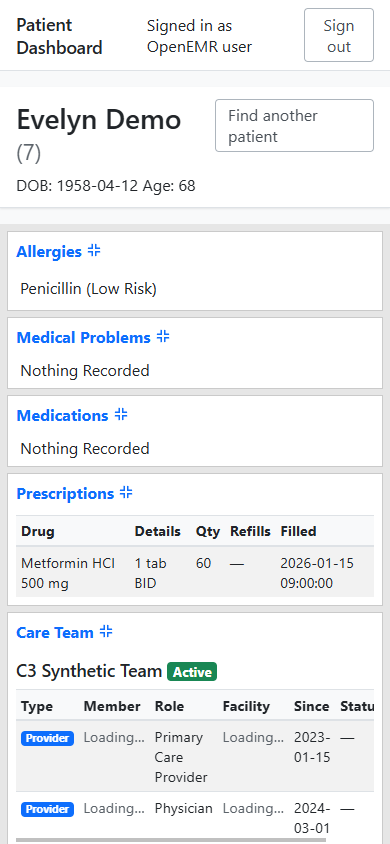
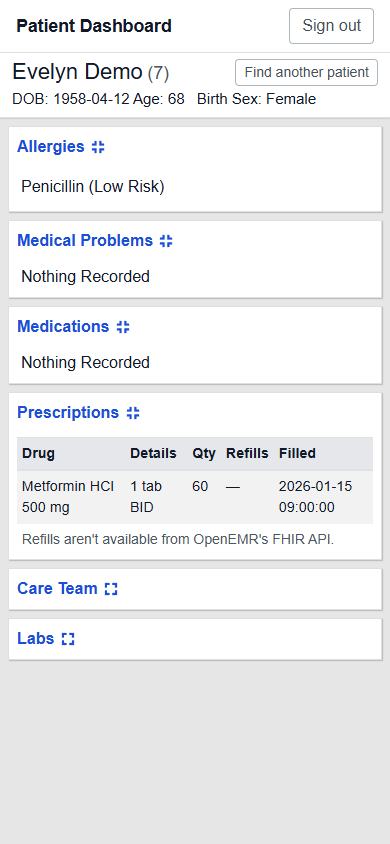
docs(dashboard): re-capture port screenshots after UX wave 3
- docs/dashboard-parity: every *_port.png (pid 7 and pid 10 header and
  cards), list_landing_port.png and pid7_phone_port.png re-captured on the
  dev stack as drdash with the C6 recipe (same filenames; synthetic data).
  pid7_modeB_page.png is noted as pre-UX (mode B needs a launch from inside
  OpenEMR; not re-captured).
- PARITY.md: Presentation now covers waves 1-3 (page layout, page messages);
  the landing rows use the current copy ("This page is past the end of the
  list.", "Showing 21-40", Clear list); the wave 3 real-Chrome axe re-run
  (all rules, 1366 and 390 px, landing states, pid 7 expanded, not-found):
  0 violations. README: "Clear list".

diff --git a/docs/dashboard-parity/PARITY.md b/docs/dashboard-parity/PARITY.md
@@ -2,15 +2,15 @@
 
 Evidence for the parity requirement of the dashboard port (`dashboard/`). Each row compares what the PHP patient summary (`interface/patient_file/summary/demographics.php`) shows with what the port shows for the same synthetic patient, on the same dev stack, on the same day.
 
-- **Captured** 2026-09-27 on `docker/development-easy` (OpenEMR 8.2.0-dev, date format `YYYY-MM-DD`).
+- **Captured** 2026-09-27 on `docker/development-easy` (OpenEMR 8.2.0-dev, date format `YYYY-MM-DD`). The port screenshots (`*_port.png`, `list_landing_port.png`, `pid7_phone_port.png`) were re-captured after UX wave 3 the same day, with the same recipe (1400 px window, Care Team and Labs expanded; phone at 390 × 844 with the default collapse state).
 - **PHP**: signed in as `admin`, the dashboard opened in the patient tab.
 - **Port**: mode A (BFF), signed in as `drdash`, a non-admin user in the Physicians group, with the default build (no `VITE_OPENEMR_WEB_URL`, so no edit links).
-- **Mode B** (inside OpenEMR, patient-context token): `pid7_modeB_page.png` (from C5).
+- **Mode B** (inside OpenEMR, patient-context token): `pid7_modeB_page.png` (from C5, before the UX waves: it still shows the old card chrome and app bar).
 - **Patients**: Evelyn Demo (pid 7) and Thomas Reyes (pid 10). All data is synthetic. Pid 7's care team ("C3 Synthetic Team": one active and one inactive member) was seeded for C3.
 - **Screenshots**: one element per file, named `pid<N>_<part>_{php|port}.png`.
 - **Gap numbers** (G#) refer to the gaps table in `dashboard/README.md` (*FHIR gaps and deliberate differences*).
 
-Status: **match** = same content. Styling follows OpenEMR's default theme (style_light) since the UX waves of 2026-09-27; the remaining visual differences are listed under *Presentation (UX waves 1–2)* below. **gap G#** = a documented difference caused by what OpenEMR's FHIR API exposes. **by design** = a deliberate choice, explained in the README.
+Status: **match** = same content. Styling follows OpenEMR's default theme (style_light) since the UX waves of 2026-09-27; the remaining visual differences are listed under *Presentation (UX waves 1–3)* below. **gap G#** = a documented difference caused by what OpenEMR's FHIR API exposes. **by design** = a deliberate choice, explained in the README.
 
 ## Header (`pid7_header_*`, `pid10_header_*`)
 
@@ -105,14 +105,14 @@ Added after the parity capture, on the same dev stack as `drdash` (2026-09-27). 
 
 | Feature | OpenEMR | Port | Status |
 |---|---|---|---|
-| Patient list without a search term | Patient Finder: paged list of all patients | landing page `/dashboard`: 20 per page, Previous / Next, "Page N", page in the URL | mirrors. Live: 14 synthetic patients, one page, sorted Demo … Walsh; `?page=2` says "No patients on this page." |
+| Patient list without a search term | Patient Finder: paged list of all patients | landing page `/dashboard`: 20 per page, Previous / Next, "Page N", page in the URL | mirrors. Live: 14 synthetic patients, one page, sorted Demo … Walsh; `?page=2` says "This page is past the end of the list." with a *Go to page 1* link |
 | Sort | Finder's saved column order | last name, then first and middle name (`_sort=family,given`) | mirrors. OpenEMR honours `_count`, `_offset` and `_sort` on Patient searches (checked live with `_count=5`: pages 1 and 2 follow on; `-family,-given` and `birthdate` sort as expected). Ties on the full name have no further tie-break (OpenEMR's sort whitelist has no FHIR key for the uuid) |
-| Total / next page | Finder shows "x of N" | no total; "Showing patients 21–40" and Next enabled only when a 21st row came back | OpenEMR's Bundle has only a `self` link and `total` = the entries returned, so the overall count is unknown |
+| Total / next page | Finder shows "x of N" | no total; "Showing 21–40" and Next enabled only when a 21st row came back | OpenEMR's Bundle has only a `self` link and `total` = the entries returned, so the overall count is unknown |
 | Columns | configurable (name, phone, SSN, DOB, …) | Name, DOB, Sex, MRN (`PT` identifier) | by design: never SSN, never phone |
 | Search box | Finder's column filters | the existing name / DOB / MRN search narrows the same list, with the same paging | mirrors |
-| Recent patients | per user, server-side (`recent_patients`, updated when the PHP dashboard opens a chart, default 20) | per user **in this browser** (hashed `fhirUser` key), **ids only**, max 10, most recent first, updated when a patient opens; names / DOB / MRN read live; gone or forbidden patients dropped silently; Clear button | by design: no REST or FHIR route exposes OpenEMR's list, and the app is read-only. Live: opening Evelyn Demo then Thomas Reyes listed Reyes, Demo; storage held the two uuids only; Clear removed the entry |
+| Recent patients | per user, server-side (`recent_patients`, updated when the PHP dashboard opens a chart, default 20) | per user **in this browser** (hashed `fhirUser` key), **ids only**, max 10, most recent first, updated when a patient opens; names / DOB / MRN read live; gone or forbidden patients dropped silently; *Clear list* button | by design: no REST or FHIR route exposes OpenEMR's list, and the app is read-only. Live: opening Evelyn Demo then Thomas Reyes listed Reyes, Demo; storage held the two uuids only; Clear removed the entry |
 
-## Presentation (UX waves 1–2, 2026-09-27)
+## Presentation (UX waves 1–3, 2026-09-27)
 
 Presentation and wording only: no data rule changed (allergy severity mapping, refills "—", the subject guard, entered-in-error filtering and the combined-medications fallback are as above). The plan is `W2_PLANNING/DASHBOARD_UX_PLAN.md`; the look is OpenEMR's default theme (`style_light`) and `demographics.php`, not a redesign.
 
@@ -131,13 +131,15 @@ Presentation and wording only: no data rule changed (allergy severity mapping, r
 | Combined medications note (modes B/C) | n/a | "This sign-in can't read OpenEMR's medication list, so medications and prescriptions are shown together, each order once." | wording only |
 | Modes B/C app bar | OpenEMR's own bars | no separate title row; *Signed in as* / *Sign out* in the patient bar | by design (plan L5) |
 | Phone (390 px) | not responsive | sticky patient bar 65 px, no wrapped button text, cards stacked | port only |
+| Page layout (mode A) | patient page `container-fluid` | every page starts on the app title's left edge; the landing page is a 55rem column; the landing and not-found pages share one page title style (1.5rem, weight 500, OpenEMR `.title` size); landing cards sit 0.5rem apart, as on the dashboard | port only (wave 3) |
+| Page messages (mode A) | n/a | patient page: "Your OpenEMR account doesn't have access to this patient's chart.", "No patient matches this link. …", "Couldn't load this patient: …" with *Try again*; "Checking your sign-in…"; "Couldn't reach the dashboard server. Check your connection, then reload the page."; a failed sign-in says "Sign-in didn't complete: …" and the button reads *Sign in again*; unknown addresses: "This page doesn't exist." (a page heading) + *Go to the patient list* | wording only (wave 3) |
 
 ## Accessibility and layout (port)
 
 - **axe-core in a real browser** (Chrome, all rules including colour contrast):
   - pages checked: patient search with results; patient page with every card expanded; phone width (390 px); the patient-list landing page, with and without the recent-patients list (2026-09-27: 0 violations; at 390 px no horizontal page scroll).
   - result: **0 violations** after two fixes made in C6. The muted text colour was changed from `#6c757d` to `#5c636a` (it measured below 4.5:1 on striped rows and on the page background). The wide table wrappers became focusable regions, so they can be scrolled from the keyboard.
-  - UX wave 1 (2026-09-27) set the muted colour to **`#4b5563`** (style_light `$gray-600`, OpenEMR's `.text-muted`; 7.5:1 on white), which also passes on the striped rows and the grey page. Re-run at 1366 px and 390 px: after wave 1 on the landing page and the patient page, and after wave 2 on the patient page with every card expanded (care-team note and footnotes shown), once as loaded and once with the Labs request blocked (error line and *Try again* shown): **0 violations** each time, no horizontal scroll at 390 px.
+  - UX wave 1 (2026-09-27) set the muted colour to **`#4b5563`** (style_light `$gray-600`, OpenEMR's `.text-muted`; 7.5:1 on white), which also passes on the striped rows and the grey page. Re-run at 1366 px and 390 px: after wave 1 on the landing page and the patient page, and after wave 2 on the patient page with every card expanded (care-team note and footnotes shown), once as loaded and once with the Labs request blocked (error line and *Try again* shown): **0 violations** each time, no horizontal scroll at 390 px. After wave 3 (all rules, built BFF on the dev stack as `drdash`), at 1366 px and 390 px: the landing page empty, with recent patients, with search results and with the partial-DOB error; pid 7 with every card expanded; and the not-found page (its missing `h1` was the one finding, `page-has-heading-one`, fixed in wave 3): **0 violations**, no horizontal scroll at 390 px.
 - **PHP page for comparison** (`demographics.php?set_pid=7`, loaded as a top-level page): **34 serious or critical nodes in 7 rules** (`link-name` 17, `color-contrast` 11, `aria-required-parent` 2, `aria-hidden-focus`, `aria-valid-attr-value`, `html-has-lang`, `list`), plus 4 moderate rules.
 - **Unit test**: `dashboard/web/test/a11y.test.tsx` runs axe on the signed-out, search, landing (list + pager + recent patients) and patient pages in jsdom. jsdom cannot check colour contrast.
 - **Keyboard only**, mode A, every step passed (C6, before the patient list was added; tab counts have changed since). Paging with Previous / Next by keyboard, with focus moving to the new page's table, is covered by `web/test/PatientListFlow.test.tsx`; the dev stack has too few patients for a second page:

diff --git a/dashboard/README.md b/dashboard/README.md
@@ -81,7 +81,7 @@ Scopes are read-only, with no `offline_access`, so no refresh token is issued. A
 - **Data layer**: TanStack Query hooks (`web/src/data/hooks.ts`) over the `DataSource` interface, typed with `@types/fhir` R4. Components receive the state as data (`idle` / `loading` / `error` / `empty` / `ready`, `web/src/data/queryView.ts`). Only transient failures (502/5xx, 504, network) are retried, twice; 400/401/403/404 never are. A 401 ends the session ("Your session has expired"), and the query cache is cleared whenever the user is signed out.
 - **Patient list** (`/dashboard`, the landing page; like OpenEMR's Patient Finder): every patient the user can see, **20 per page**, sorted by last name then first and middle name (`_sort=family,given`), with Previous / Next and "Page N". The page lives in the URL (`?page=2`). The app asks for 21 rows (`_count=21&_offset=…`) and enables Next only when the 21st arrives: OpenEMR's Patient Bundle has only a `self` link and its `total` is the number of entries returned, so there is no overall count. After paging, focus moves to the new page's table. Measured on the dev stack: `_count`, `_offset` and `_sort` (`family`, `-family`, `family,given`, `birthdate`) all take effect on Patient searches; ties on the full name have no further tie-break.
 - **Patient search**: name, date of birth and/or MRN narrow the same list (same paging and sort), checked in the browser against the same patterns the BFF allow-lists. Criteria live in the URL (`/dashboard?name=Demo`), so Back returns to the results; an empty search (or *Show all patients*) returns to the whole list. The table shows name, DOB, sex and MRN (the `PT` identifier), and each name links to `/patient/:id`. Switching patients keeps the session. OpenEMR's `identifier` search also matches SSNs; the SSN and phone numbers are never displayed.
-- **Recent patients** (on the landing page, above the list; `web/src/recent/`): OpenEMR keeps a per-user list server-side (`recent_patients`, shown by the Patient Finder), but no REST or FHIR route exposes it. The app therefore keeps its own, in `localStorage` under `dash.recentPatients.v1.<SHA-256 of the user's fhirUser>`, holding **FHIR patient ids only** (never names, DOBs or other PHI): at most 10, most recent first, updated when a patient's page opens. Names, DOB and MRN are read live through the BFF; a patient that answers 404 or 403 is dropped silently (and from storage). *Clear* empties it. Every storage access is wrapped: with storage blocked, or no `fhirUser`, the list lives in memory for the session.
+- **Recent patients** (on the landing page, above the list; `web/src/recent/`): OpenEMR keeps a per-user list server-side (`recent_patients`, shown by the Patient Finder), but no REST or FHIR route exposes it. The app therefore keeps its own, in `localStorage` under `dash.recentPatients.v1.<SHA-256 of the user's fhirUser>`, holding **FHIR patient ids only** (never names, DOBs or other PHI): at most 10, most recent first, updated when a patient's page opens. Names, DOB and MRN are read live through the BFF; a patient that answers 404 or 403 is dropped silently (and from storage). *Clear list* empties it. Every storage access is wrapped: with storage blocked, or no `fhirUser`, the list lives in memory for the session.
 - **Patient header** (`/patient/:id`): parity with OpenEMR's persistent patient bar (`patient_data_template.php`, `demographics.php` `setMyPatient`): `First Last (pubpid)`, then `DOB: <date> Age: <age>` or `DOB: <date> Age at death: <age>`, then **`Birth Sex: <Male | Female | Other | Unknown>`** from FHIR `Patient.gender` (asked for by the challenge; OpenEMR fills `gender` from `patient_data.sex`, which its Demographics card labels "Birth Sex"; left out when absent). The MRN is the identifier with type code `PT`, chosen by code, never by position (OpenEMR emits the SSN identifier first). Age follows `PatientService::getPatientAge` (whole years above 24 full months, else `n month`) and age at death follows `oeFormatAge`. The bar is sticky while scrolling. Focus moves to the page heading after each navigation.
 - **Deliberate differences from the PHP bar**: sex is shown (the PHP bar does not show it; the challenge asks for it). Active status is not shown: OpenEMR's FHIR `active` is hard-coded `true`, and the PHP dashboard does not show it. The photo, encounter controls and the close icon are not ported ("Find another patient" replaces the close icon). `age_display_format = 1` (`#y #m #d`) is not supported. For an age at death under 24 months the PHP prints `11months` (an operator-precedence slip); the port prints `11 months`.
 
